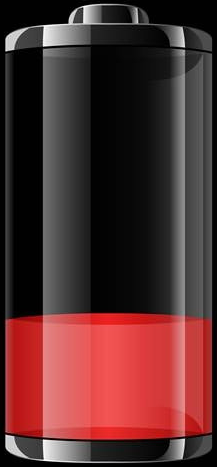
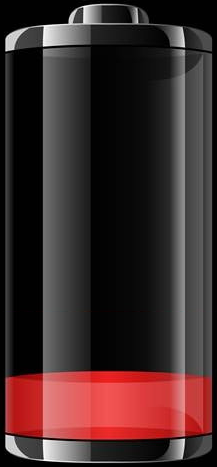
Version 1.0.1.004 2015-01-23 11:20 1. Change Channel 1&2 Order 2. Change Battery Capacity Grade from 3 to 5 3. Add Battery Alarm Function 4. Add Channel Name on CurveWidget

Changed region(s): [[0.0, 0.6595, 0.9954, 0.8394]]

diff --git a/MainWindow.cpp b/MainWindow.cpp
@@ -24,6 +24,10 @@ MainWindow::MainWindow(QWidget *parent) :
     m_bIsAutoCatch = false;
     m_bIsCatched = false;
 
+    /** Set Battery Capacity Alarm */
+    m_bIsBatteryLow = false;
+    m_pBatteryAlarmMv = new QMovie(":/Images/Images/Battery_Alarm.gif");
+
     /** ? */
     this->setAttribute(Qt::WA_AcceptTouchEvents);
 
@@ -483,6 +487,47 @@ void MainWindow::DataProcPauseSlot(QString strProcName, double dNewMaxVal, doubl
 }
 
 /**
+ * @brief CtrlBattryAlarm
+ * @param bAlarmStart
+ * @param strResourceName
+ */
+void MainWindow::CtrlBattryAlarm(bool bAlarmStart, QString strResourceName)
+{
+    /** Start Alarm */
+    if (bAlarmStart == true)
+    {
+        /** Only Start Movie 1 Time */
+        if (m_bIsBatteryLow == false)
+        {
+            /** Set Battery Low Flag */
+            m_bIsBatteryLow = true;
+
+            /** Set Label Show Mode */
+            this->ui->BatteryStatusLabel->setMovie(m_pBatteryAlarmMv);
+
+            /** Start Show Gif Picture */
+            m_pBatteryAlarmMv->start();
+        }
+
+    }
+    /** End Alarm */
+    else
+    {
+        /** Set Battery Low Flag */
+        m_bIsBatteryLow = false;
+
+        /** Stop Show Gif Picture */
+        m_pBatteryAlarmMv->stop();
+
+        /** Set Label Show Mode */
+        this->ui->BatteryStatusLabel->setPixmap(QPixmap());
+
+        /** Set Battery Capacity Image Full */
+        this->ui->BatteryStatusLabel->setStyleSheet(strResourceName);
+    }
+}
+
+/**
  * @brief MainWindow::UpdateBatteryStatusSlot
  * @param nBatteryCap
  */
@@ -491,54 +536,46 @@ void MainWindow::UpdateBatteryStatusSlot(int nBatteryCap)
     /** Battery Capcity Value isnot Avaliable */
     if (nBatteryCap < 0)
     {
-        if (nBatteryCap == -4)
-        {
-            qDebug() << "Open Device /dev/adc Failed!";
-        }
-        else if (nBatteryCap == -3)
-        {
-            qDebug() << "Set Device /dev/adc Channel Failed!";
-        }
-        else if (nBatteryCap == -2)
-        {
-            qDebug() << "Tranform Battery Capacity Value Failed!";
-        }
-        else if (nBatteryCap == -1)
-        {
-            qDebug() << "Read Battery Capacity Value Failed!";
-        }
-        else
-        {
-            qDebug() << "Read Battery Capacity Value Failed! Unknown Error!";
-        }
+        /** Set Battery Capacity Image Full */
+        this->CtrlBattryAlarm(false, QString("border-image: url(:/Images/Images/Battery_Invalid.png);"));
     }
     /** Battery Capacity Value is Avaliable */
     else
     {
-        /** Battery Capacity Full */
-        if (nBatteryCap > 12)
-        {
-            /** Set Battery Capacity Image Full */
-            this->ui->BatteryStatusLabel->setStyleSheet(
-                        QString("border-image: url(:/Images/Images/Battery_Full.png);"));
-        }
-        /** Battery Capacity Medium */
-        else if (nBatteryCap > 11)
-        {
-            /** Set Battery Capacity Image High */
-            this->ui->BatteryStatusLabel->setStyleSheet(
-                        QString("border-image: url(:/Images/Images/Battery_Medium.png);"));
-        }
-        /** Battery Capacity Low */
-        else
+        /** Battery is Very Low */
+        if (nBatteryCap < Global::Battery_Low_ThresVal)
         {
             /** Set Battery Capacity Image Low */
-            this->ui->BatteryStatusLabel->setStyleSheet(
-                        QString("border-image: url(:/Images/Images/Battery_Low.png);"));
+            this->CtrlBattryAlarm(true, QString(""));
+        }
+        else if (nBatteryCap < Global::Battery_G2_ThresVal)
+        {
+            /** Set Battery Capacity Image Low */
+            this->CtrlBattryAlarm(false, QString("border-image: url(:/Images/Images/Battery_Low.png);"));
+        }
+        else if (nBatteryCap < Global::Battery_Medium_ThresVal)
+        {
+            /** Set Battery Capacity Image Full */
+            this->CtrlBattryAlarm(false, QString("border-image: url(:/Images/Images/Battery_G2.png);"));
+        }
+        else if (nBatteryCap < Global::Battery_G1_ThresVal)
+        {
+            /** Set Battery Capacity Image Full */
+            this->CtrlBattryAlarm(false, QString("border-image: url(:/Images/Images/Battery_Medium.png);"));
+        }
+        else if (nBatteryCap < Global::Battery_High_ThresVal)
+        {
+            /** Set Battery Capacity Image Full */
+            this->CtrlBattryAlarm(false, QString("border-image: url(:/Images/Images/Battery_G1.png);"));
+        }
+        else
+        {
+            /** Set Battery Capacity Image Full */
+            this->CtrlBattryAlarm(false, QString("border-image: url(:/Images/Images/Battery_Full.png);"));
         }
     }
 
-#ifdef _DEBUG_OUTPUT
+#ifndef _DEBUG_OUTPUT
             /** Debug Output */
             qDebug() << QTime::currentTime().toString("hh:mm:ss.zzz")
                      << " Battery Monitor Send Value  "

diff --git a/BatteryMonitor.cpp b/BatteryMonitor.cpp
@@ -21,7 +21,7 @@ void BatteryMonitor::run()
         if (nFileDesc < 0)
         {
             /** Send Update Signale, Status = -1; */
-            emit UpdateBatteryStatusSignal(-4);
+            emit UpdateBatteryStatusSignal(Global::ADC_Open_Failed);
             continue;
         }
 
@@ -32,7 +32,7 @@ void BatteryMonitor::run()
             close(nFileDesc);
 
             /** Send Update Signal */
-            emit UpdateBatteryStatusSignal(-3);
+            emit UpdateBatteryStatusSignal(Global::ADC_Set_Failed);
             continue;
         }
 
@@ -47,7 +47,7 @@ void BatteryMonitor::run()
             pDataBuf[nLength] = '\0';
 
             /** Calc Battery Captility */
-            int nBatteryCap = -2;
+            int nBatteryCap = Global::ADC_Trans_Failed;
             sscanf(pDataBuf, "%d", &nBatteryCap);
 
             /** Send Update Signal */
@@ -60,12 +60,18 @@ void BatteryMonitor::run()
             close(nFileDesc);
 
             /** Send Update Signal */
-            emit UpdateBatteryStatusSignal(-1);
+            emit UpdateBatteryStatusSignal(Global::ADC_Read_Failed);
         }
 
         /** We Check Battery Every 10s */
         sleep(10);
     }
+
+    /** Read Failed, Close Device */
+    close(nFileDesc);
+
+    /** Debug Output */
+    qDebug() << "Battery Monitor Thread Exited!";
 }
 
 /**

diff --git a/CurveWidget.cpp b/CurveWidget.cpp
@@ -52,6 +52,9 @@ void CurveWidget::paintEvent(QPaintEvent *e)
     /** Draw Serials */
     this->DrawSerials();
 
+    /** Draw Widget Name */
+    this->DrawWidgetName();
+
     /** */
     if (m_bIsDrawMousePos == true)
     {
@@ -213,6 +216,27 @@ void CurveWidget::DrawLabels(void)
         QString strText = ltYLabelTexts.at(i);
         vPainter.drawText(*pRect, Qt::AlignRight | Qt::AlignVCenter, strText);
     }
+}
+
+/**
+ * @brief Draw Widget Name
+ */
+void CurveWidget::DrawWidgetName(void)
+{
+    /** Declare Painter and then Set Pen */
+    QPainter vPainter(this);
+    vPainter.setFont(QFont(QString("simsun"), 12, 3, false));
+    vPainter.setPen(QPen(Qt::white, 3, Qt::DotLine, Qt::FlatCap));
+
+    /** */
+    QRect rtNameBound = QRect(this->rect().right() - 100,
+                              this->rect().top(),
+                              100,
+                              50);
+    QString strWidgetName = (this->objectName() == QString("Curve1Wgt")) ? QString("通道1") : QString("通道2");
+
+    /** */
+    vPainter.drawText(rtNameBound, Qt::AlignHCenter | Qt::AlignVCenter, strWidgetName);
 }
 
 /**

diff --git a/DataProcess.cpp b/DataProcess.cpp
@@ -46,15 +46,15 @@ void DataProcess::run(void)
         if (m_strProcName == Global::CH1_Serial_Name)
         {
             g_mutexCurve1Locker.lock();
-            acDataBuf.append(g_acCurve1);
-            g_acCurve1.clear();
+            acDataBuf.append(g_acCurve2);
+            g_acCurve2.clear();
             g_mutexCurve1Locker.unlock();
         }
         else if (m_strProcName == Global::CH2_Serial_Name)
         {
             g_mutexCurve2Locker.lock();
-            acDataBuf.append(g_acCurve2);
-            g_acCurve2.clear();
+            acDataBuf.append(g_acCurve1);
+            g_acCurve1.clear();
             g_mutexCurve2Locker.unlock();
         }
 

diff --git a/MainWindow.h b/MainWindow.h
@@ -4,6 +4,7 @@
 #include <QMainWindow>
 #include <QMessageBox>
 #include <QEvent>
+#include <QMovie>
 
 #ifdef _DEBUG_SCREENSHOT
     #include <QPixmap>
@@ -72,6 +73,13 @@ public:
      * @brief CreateTimer
      */
     void CreateTimer(void);
+
+    /**
+     * @brief CtrlBattryAlarm
+     * @param bAlarmStart
+     * @param strResourceName
+     */
+    void CtrlBattryAlarm(bool bAlarmStart, QString strResourceName);
 
 private slots:
     /**
@@ -178,6 +186,9 @@ private:
      * @brief m_ptMousePos
      */
     QPoint m_ptMousePos;
+
+    QMovie* m_pBatteryAlarmMv;
+    bool m_bIsBatteryLow;
 
 private:
     /**

diff --git a/Global.h b/Global.h
@@ -64,6 +64,19 @@ public:
     static const QString CH2_SerialPort_Name;
 
 
+
+    static const int ADC_Open_Failed = -4;
+    static const int ADC_Set_Failed = -3;
+    static const int ADC_Trans_Failed = -2;
+    static const int ADC_Read_Failed = -1;
+
+    static const int Battery_Low_ThresVal = 2980;
+    static const int Battery_G2_ThresVal = 3058;
+    static const int Battery_Medium_ThresVal = 3160;
+    static const int Battery_G1_ThresVal = 3261;
+    static const int Battery_High_ThresVal = 3363;
+
+
 public:
     /**
      * @brief Status_ToString

diff --git a/CurveWidget.h b/CurveWidget.h
@@ -88,6 +88,11 @@ private:
     /**
      * @brief DrawMousePosLine
      */
+    void DrawWidgetName(void);
+
+    /**
+     * @brief DrawMousePosLine
+     */
     void DrawMousePosLine(void);
 
 public:

diff --git a/main.cpp b/main.cpp
@@ -4,7 +4,7 @@
 #include <QWSServer>
 #include <QDebug>
 
-#define __PROGRAM_VERSION__     "1.0.1 alpha003"
+#define __PROGRAM_VERSION__     "1.0.1.004"
 
 int main(int argc, char *argv[])
 {

diff --git a/BatteryMonitor.h b/BatteryMonitor.h
@@ -15,6 +15,8 @@
 #include <QThread>
 #include <QDebug>
 
+#include "Global.h"
+
 class BatteryMonitor : public QThread
 {
     Q_OBJECT
